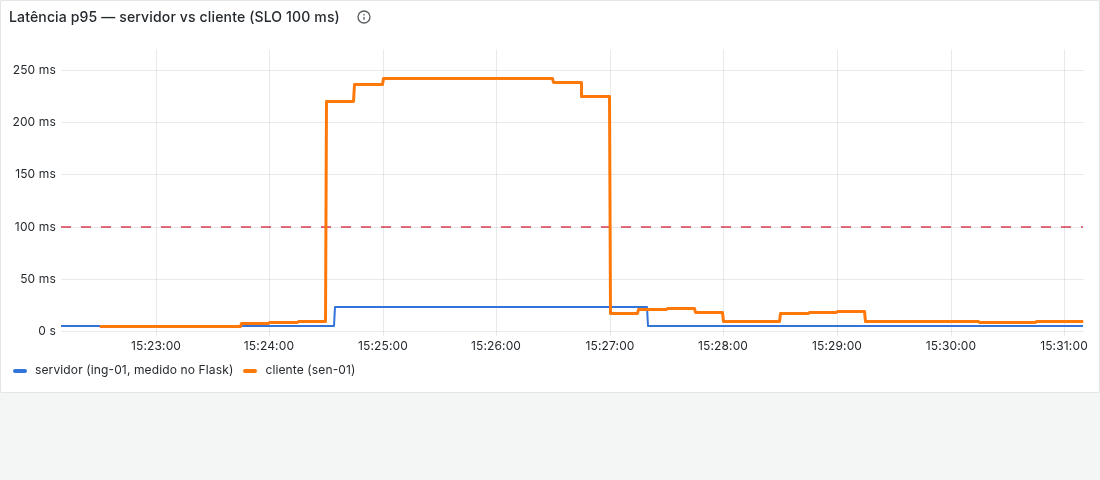
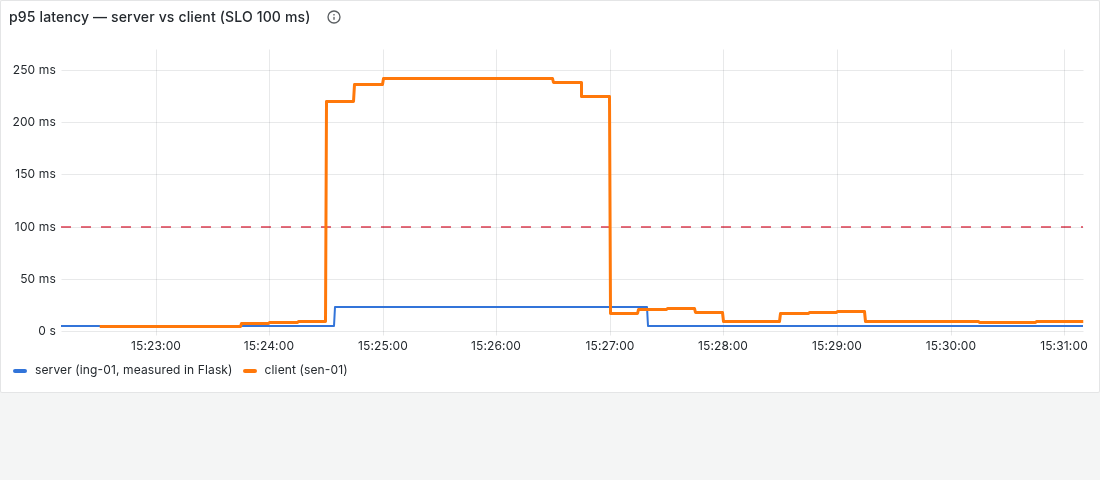
Report figures in English; rename architecture/topology figures
Live screenshots re-taken from the lab with the translated dashboards
(T1 baseline and run 10, SOC baseline and during T2), the staging replay
regenerated, unused SOC figure removed.

Changed region(s): [[0.0, 0.0, 0.34, 0.0625], [0.0618, 0.75, 0.2164, 0.7812], [0.2473, 0.75, 0.34, 0.7812]]

diff --git a/report/figures/build_topology.py b/report/figures/build_topology.py
@@ -3,7 +3,7 @@
 """
 Name-topology figure GENERATED from the inventory (single source of truth) — hand-written SVG, no Graphviz:
 
-    python3 report/figures/build_topology.py        # → report/figures/topologia.svg (+ .png via chromium)
+    python3 report/figures/build_topology.py        # → report/figures/topology.svg (+ .png via chromium)
 
 One column per Incus project/network (core and each site: city, subnet, team), one box per element with
 its canonical identity ssle:<region>:<site>:<host>:<inst>, and inventory dependencies as arrows
@@ -60,11 +60,11 @@ def main():
     for ed in g["edges"]:
         (fx, fy), (tx, ty) = pos[ed["from"]], pos[ed["to"]]
         cross = ed["from"].split(":")[2] != ed["to"].split(":")[2]
-        if cross:   # entre colunas: da esquerda do dependente para a direita da dependência
+        if cross:   # across columns: from the left of the dependent to the right of the dependency
             x1, y1, x2, y2 = fx, fy + BOXH / 2, tx + BOXW, ty + BOXH / 2
             d = "M%d,%d C%d,%d %d,%d %d,%d" % (x1, y1, x1 - 20, y1, x2 + 20, y2, x2 + 8, y2)
             color, dash = "#ea580c", ' stroke-dasharray="6 4"'
-        else:       # na mesma coluna: pela ESQUERDA da caixa (a direita fica para as arestas entre sites)
+        else:       # same column: along the LEFT of the box (the right is kept for cross-site edges)
             x1, y1, x2, y2 = fx, fy + BOXH / 2, tx, ty + BOXH / 2
             bend = 16 + 3 * abs(y1 - y2) / (BOXH + GAP)
             d = "M%d,%d C%d,%d %d,%d %d,%d" % (x1, y1, x1 - bend, y1, x2 - bend, y2, x2 - 8, y2)
@@ -81,14 +81,14 @@ def main():
     svg = ('<svg xmlns="http://www.w3.org/2000/svg" width="%d" height="%d" viewBox="0 0 %d %d" '
            'font-family="Inter, DejaVu Sans, Arial, sans-serif"><defs>%s</defs>%s</svg>\n'
            % (W, H, W, H, defs, "".join(parts)))
-    out = os.path.join(HERE, "topologia.svg")
+    out = os.path.join(HERE, "topology.svg")
     with open(out, "w", encoding="utf-8") as fh:
         fh.write(svg)
     print(os.path.relpath(out, ROOT))
     chrome = shutil.which("chromium") or shutil.which("google-chrome")
     if chrome:
         with tempfile.TemporaryDirectory() as prof:
-            png = os.path.join(HERE, "topologia.png")
+            png = os.path.join(HERE, "topology.png")
             subprocess.run([chrome, "--headless=new", "--disable-gpu", "--hide-scrollbars",
                             "--user-data-dir=" + prof, "--window-size=%d,%d" % (W, H),
                             "--screenshot=" + png, "file://" + out],

diff --git a/report/figures/build_architecture.py b/report/figures/build_architecture.py
@@ -3,7 +3,7 @@
 """
 Architecture (data-flow) figure generated from the inventory — hand-written SVG, no Graphviz:
 
-    python3 report/figures/build_architecture.py     # → report/figures/arquitetura.svg (+ .png via rsvg-convert)
+    python3 report/figures/build_architecture.py     # → report/figures/architecture.svg (+ .png via rsvg-convert)
 
 SOC (core) on top, one card per site with the inventory elements below. Four flows, each with its own colour:
 metrics (site Prometheus → global, ONLY aggregates), alerts and incidents (Alertmanager → correlator →
@@ -110,10 +110,10 @@ def main():
         for k, e in enumerate(els):
             p += box(x + 12, top + 28 + k * 48, cw - 24, 42, "%s  %s  (%s)" % (e["name"], e["ip"], e["role"]),
                      [roles.get(e["role"], "")], bold=False)
-        # do site para a faixa: métricas, alertas, logs (verticais, sem cruzamentos)
+        # from the site to the band: metrics, alerts, logs (vertical, no crossings)
         for off, kind in ((-90, "metric"), (-40, "alert"), (60, "log")):
             p += arrow(x + cw / 2 + off, top, x + cw / 2 + off, BY + BH, kind)
-        if s == "opo":   # a quarentena desce ao site dos sensores
+        if s == "opo":   # quarantine goes down to the sensors' site
             p += arrow(x + cw - 50, BY + BH, x + cw - 50, top, "resp")
     # ── legenda ──
     lx, ly = 20, H - 16
@@ -123,7 +123,7 @@ def main():
         p.append('<text x="%d" y="%d" font-size="11" fill="%s">%s</text>' % (lx + 40, ly, C["muted"], escape(label)))
         lx += 60 + 6.2 * len(label)
     p.append("</svg>")
-    path = os.path.join(HERE, "arquitetura.svg")
+    path = os.path.join(HERE, "architecture.svg")
     with open(path, "w", encoding="utf-8") as fh:
         fh.write("\n".join(p) + "\n")
     if shutil.which("rsvg-convert"):

diff --git a/report/README.md b/report/README.md
@@ -18,8 +18,8 @@ Article-style structure. The final report is in **LaTeX** (English) in [`latex/m
 
 | Figure | File | How to generate | Status |
 |---|---|---|---|
-| Architecture | [`figures/arquitetura.png`](figures/arquitetura.png) (+ `.svg`) | `python3 report/figures/build_architecture.py` (from inventory: 4 flows) | ✅ |
-| Name topology | [`figures/topologia.png`](figures/topologia.png) (+ `.svg`) | `python3 report/figures/build_topology.py` (from inventory) | ✅ |
+| Architecture | [`figures/architecture.png`](figures/architecture.png) (+ `.svg`) | `python3 report/figures/build_architecture.py` (from inventory: 4 flows) | ✅ |
+| Name topology | [`figures/topology.png`](figures/topology.png) (+ `.svg`) | `python3 report/figures/build_topology.py` (from inventory) | ✅ |
 | 3 ADTrees | [`figures/adtree-t1.png`](figures/adtree-t1.png), [`t2`](figures/adtree-t2.png), [`t3`](figures/adtree-t3.png) (+ `.svg`) | `python3 report/figures/build_adtrees.py` (Kordy et al. notation; defences ✓ tested / ○ planned) | ✅ |
 | Timeline per PoC | T1: table in post-mortem | — | — |
 | Grafana during a PoC | [`figures/t1-replay-run1-dashboard.png`](figures/t1-replay-run1-dashboard.png) | `bash monitoring/grafana/replay-t1.sh 1` (**replay** from staging) | — (definitive from T490) |
